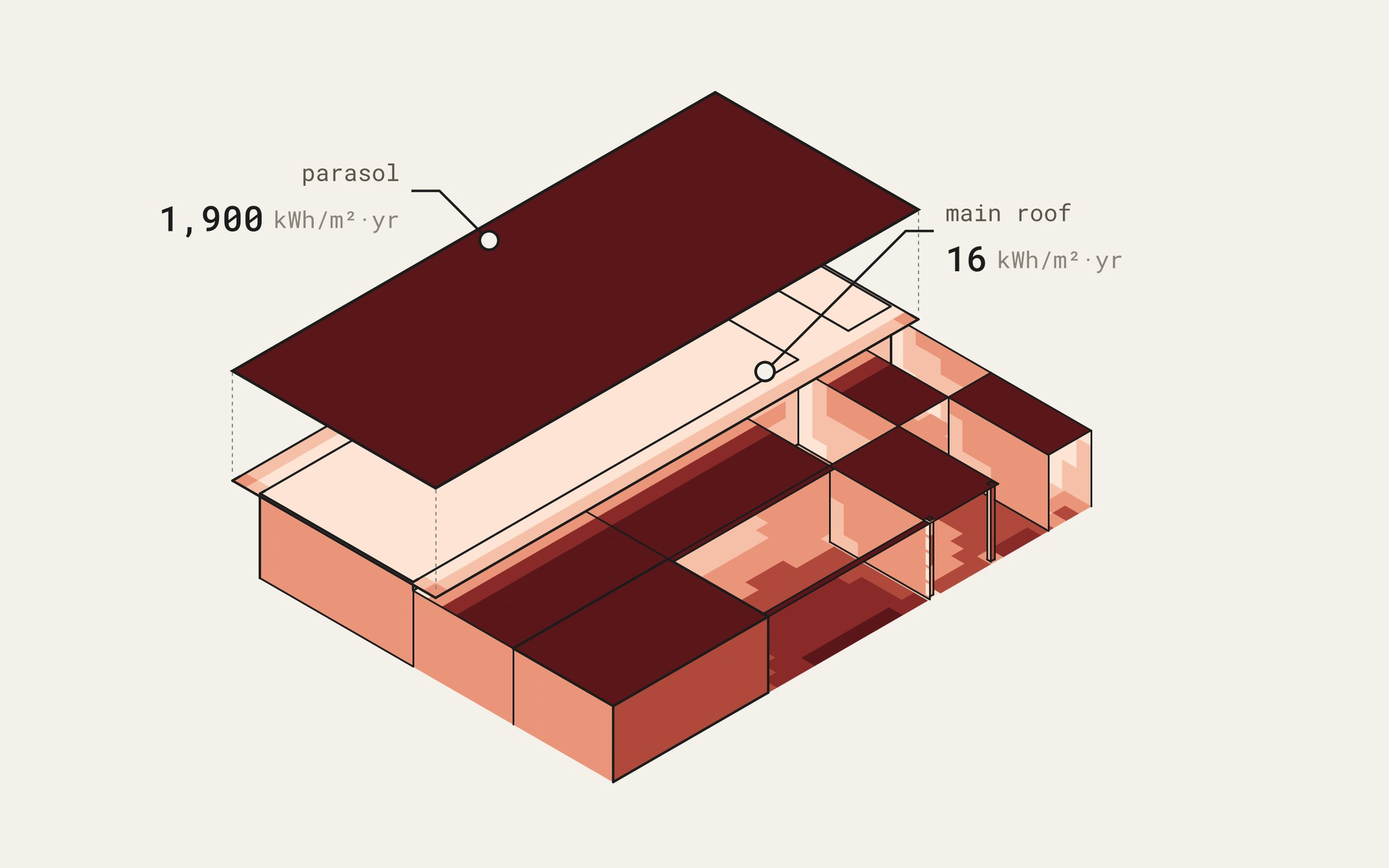
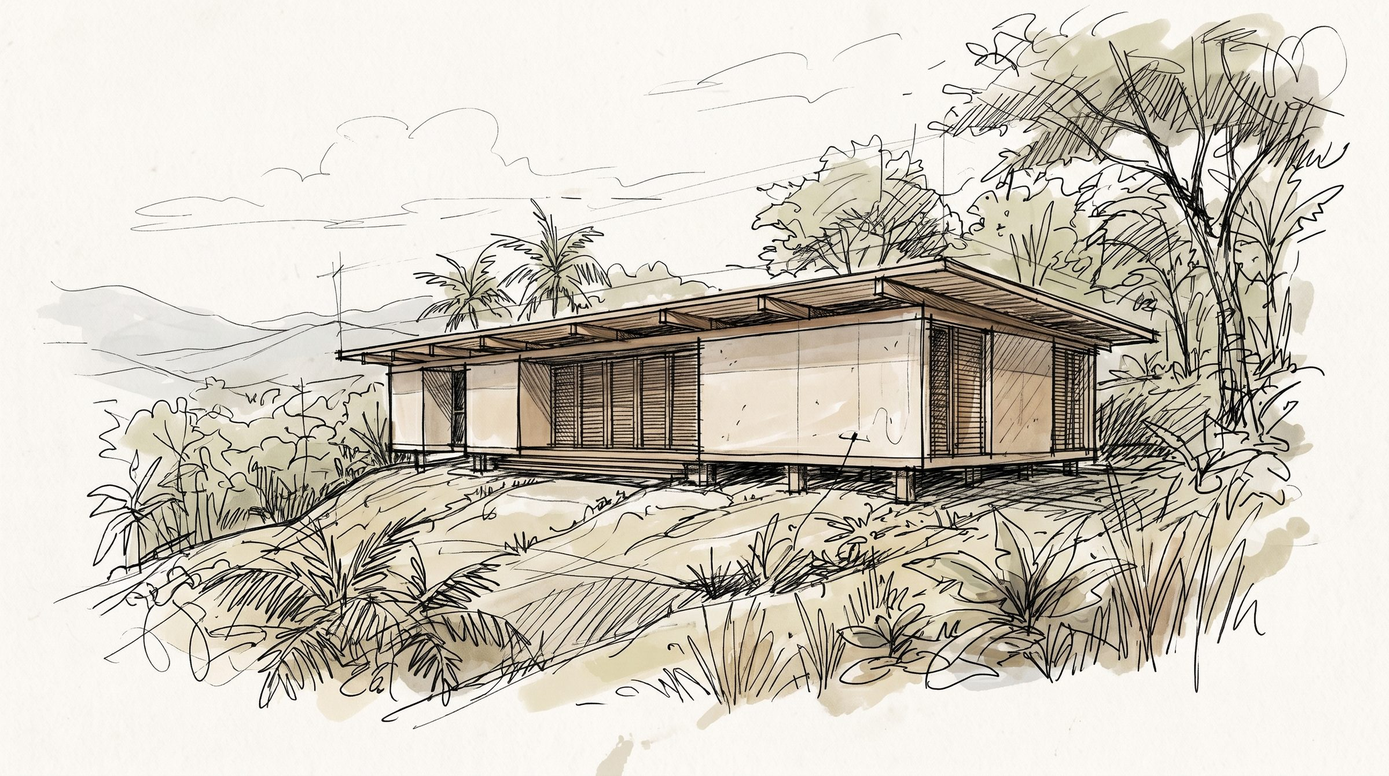
projects: casa castillo hero is the sketch illustration
- replace the isometric-chart hero with the illustration of the house on
  its hillside, so the hero matches the other project pages. the chart
  stays in the study section.
- caption + alt label it as an ai illustration based on the 2020 study
  model, es + en.

diff --git a/src/content/projects/es/casa-castillo.md b/src/content/projects/es/casa-castillo.md
@@ -12,8 +12,8 @@ roleNote: "cliente privado"
 featured: false
 order: 13.5
 heroImage: /projects/casa-castillo/01.jpg
-heroCaption: "// radiación solar anual sobre cada superficie, con el parasol levantado. gráfico completo abajo."
-heroAlt: "isométrico explotado de casa castillo coloreado por radiación solar anual: el parasol, levantado sobre la casa, recibe el sol en rojo oscuro y el techo principal debajo queda pálido"
+heroCaption: "// ilustración con ia, basada en el modelo del estudio de 2020"
+heroAlt: "ilustración con ia de casa castillo, basada en el modelo del estudio de 2020: una casa larga y baja sobre pilotes bajo un techo plano delgado, con paneles de celosía, en una ladera con pasto entre palmas y árboles"
 metric:
   value: '+450'
   unit: 'h'

diff --git a/src/content/projects/en/casa-castillo.md b/src/content/projects/en/casa-castillo.md
@@ -12,8 +12,8 @@ roleNote: "private client"
 featured: false
 order: 13.5
 heroImage: /projects/casa-castillo/01.jpg
-heroCaption: "// yearly sun on every surface, parasol lifted. full chart below."
-heroAlt: "exploded isometric of casa castillo colored by yearly sun: the parasol, lifted above the house, takes the sun in dark red while the main roof under it stays pale"
+heroCaption: "// ai illustration, based on the 2020 study model"
+heroAlt: "ai illustration of casa castillo, based on the 2020 study model: a long, low house on stilts under a thin flat roof, with louvered panels, on a grassy hillside among palms and trees"
 metric:
   value: '+450'
   unit: 'h'
